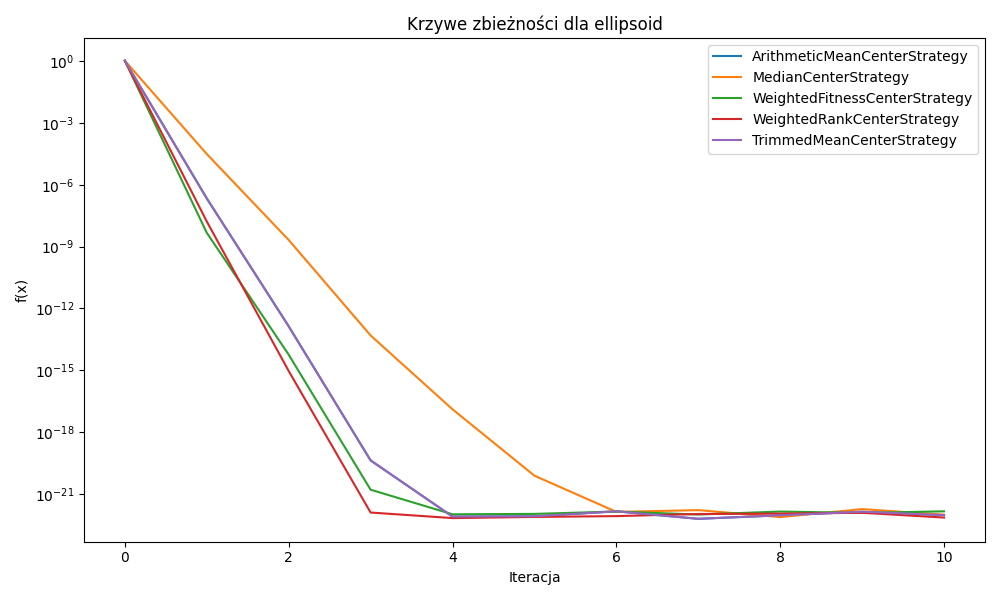
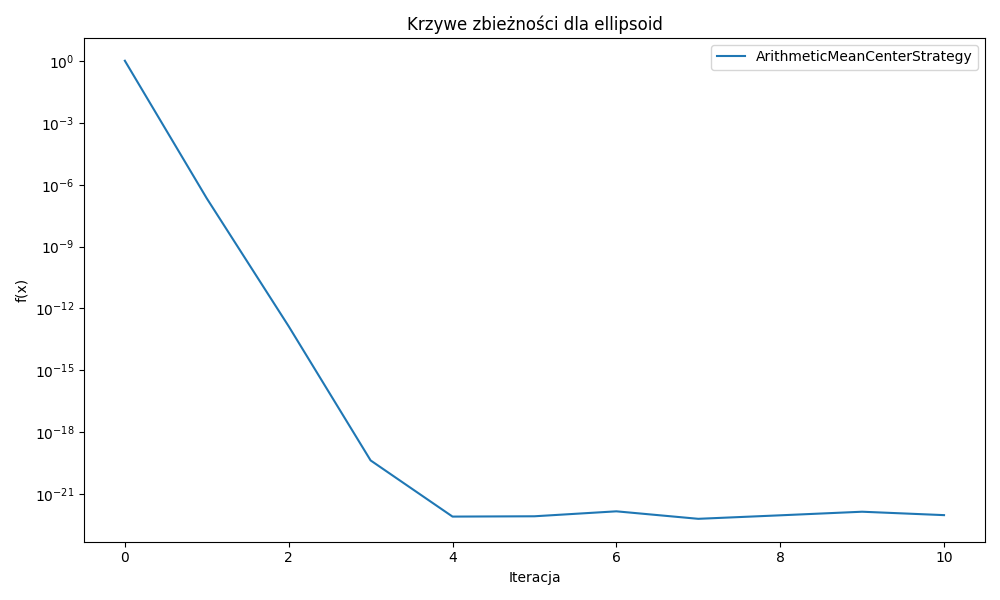
added more dims and lin scale for neg results

diff --git a/source/test/test_performance.py b/source/test/test_performance.py
@@ -16,28 +16,28 @@ CONV_CURVES_DIR = "convergence_curves"
 
 class TestCMAESPerformance(unittest.TestCase):
     def setUp(self):
-        self.dim = 5
-        self.x0 = np.zeros(self.dim)
+        self.dims = [2, 5, 10, 20]
         self.max_iter = 1000
         self.sigma = 0.5
         self.seeds = [42, 123, 7, 2024, 999]
         self.results = {}  # (func_name, strategy_name) -> [fx, fx, ...]
         os.makedirs(CONV_CURVES_DIR, exist_ok=True)
 
-    def run_optimizer(self, func, center_strategy, seed):
+    def run_optimizer(self, func, center_strategy, seed, dim):
+        x0 = np.zeros(dim)
         params = CMAParameters.basic_from_literature(
-            dim=self.dim, center_strategy=center_strategy, seed=seed
+            dim=dim, center_strategy=center_strategy, seed=seed
         )
         params.max_iter = self.max_iter
         params.sigma = self.sigma
-        optimizer = cma_es(x0=self.x0, parameters=params)
+        optimizer = cma_es(x0=x0, parameters=params)
         result = optimizer.optimize(func)
         # --- ZAPISZ KRZYWĄ ZBIEŻNOŚCI ---
         curve = getattr(optimizer, "f_history", None)
         if curve is None and hasattr(optimizer, "logger"):
             curve = getattr(optimizer.logger, "best_fitness_history", None)
         if curve is not None:
-            curve_filename = f"{CONV_CURVES_DIR}/{func.__name__}_{type(center_strategy).__name__}_seed{seed}.csv"
+            curve_filename = f"{CONV_CURVES_DIR}/{func.__name__}_{type(center_strategy).__name__}_dim{dim}_seed{seed}.csv"
             with open(curve_filename, "w", newline="") as f:
                 writer = csv.writer(f)
                 writer.writerow(["iteration", "fx"])
@@ -48,10 +48,10 @@ class TestCMAESPerformance(unittest.TestCase):
     def save_results_to_csv(self, filename=RESULTS_CSV):
         with open(filename, "w", newline="") as f:
             writer = csv.writer(f)
-            writer.writerow(["function", "strategy", "seed", "fx"])
-            for (func_name, strategy_name), fx_list in self.results.items():
+            writer.writerow(["function", "strategy","dim", "seed", "fx"])
+            for (func_name, strategy_name,dim), fx_list in self.results.items():
                 for i, fx in enumerate(fx_list):
-                    writer.writerow([func_name, strategy_name, self.seeds[i], fx])
+                    writer.writerow([func_name, strategy_name, dim, self.seeds[i], fx])
 
     def save_results_pickle(self, filename=RESULTS_PKL):
         with open(filename, "wb") as f:
@@ -70,24 +70,25 @@ class TestCMAESPerformance(unittest.TestCase):
             mn.TrimmedMeanCenterStrategy(),
         ]
         tol = 5e-2
-        max_time = 5.0  # sekundy
+        max_time = 10.0  # sekundy
 
         errors = []  # lista błędów
 
         for func_name, func in benchmark_functions.items():
-            for strategy in strategies:
-                fx_list = []
-                for seed in self.seeds:
-                    np.random.seed(seed)
-                    start = time.time()
-                    result = self.run_optimizer(func, strategy, seed)
-                    elapsed = time.time() - start
-                    fx = func(result)
-                    fx_list.append(fx)
-                    print(f"{func_name} {type(strategy).__name__}: f(x)={fx:.3e}, czas={elapsed:.2f}s")
-                    if not (fx < tol and elapsed < max_time):
-                        errors.append(f"{func_name} {type(strategy).__name__} seed={seed}: f(x)={fx}, czas={elapsed}s")
-                self.results[(func_name, type(strategy).__name__)] = fx_list
+            for dim in self.dims:
+                for strategy in strategies:
+                    fx_list = []
+                    for seed in self.seeds:
+                        np.random.seed(seed)
+                        start = time.time()
+                        result = self.run_optimizer(func, strategy, seed, dim)
+                        elapsed = time.time() - start
+                        fx = func(result)
+                        fx_list.append(fx)
+                        print(f"{func_name} dim={dim} {type(strategy).__name__}: f(x)={fx:.3e}, czas={elapsed:.2f}s")
+                        if not (fx < tol and elapsed < max_time):
+                            errors.append(f"{func_name} {type(strategy).__name__} dim ={dim} seed={seed}: f(x)={fx}, czas={elapsed}s")
+                    self.results[(func_name, type(strategy).__name__, dim)] = fx_list
 
         # Zapisz wyniki po teście
         self.save_results_to_csv()
@@ -99,18 +100,18 @@ class TestCMAESPerformance(unittest.TestCase):
             for err in errors:
                 print(err)
 
-    def wilcoxon_center_on_function(self, func_name, strat1, strat2):
-        fx1 = self.results.get((func_name, strat1))
-        fx2 = self.results.get((func_name, strat2))
+    def wilcoxon_center_on_function(self, func_name, strat1, strat2, dim):
+        fx1 = self.results.get((func_name, strat1, dim))
+        fx2 = self.results.get((func_name, strat2, dim))
         if fx1 is None or fx2 is None:
-            self.skipTest("Najpierw uruchom test_performance_and_collect, by zebrać wyniki.")
+             print(f"Brak wyników dla {func_name}, {strat1} lub {strat2}, dim={dim}")
         # Sprawdź czy wszystkie różnice to zero
         diffs = np.array(fx1) - np.array(fx2)
         if np.allclose(diffs, 0):
-            print(f"Wilcoxon {strat1} vs {strat2} on {func_name}: wszystkie wyniki identyczne, test pominięty.")
+            print(f"Wilcoxon {strat1} vs {strat2} on {func_name} dim ={dim}: wszystkie wyniki identyczne, test pominięty.")
             return
         stat, p = wilcoxon(fx1, fx2)
-        print(f"Wilcoxon {strat1} vs {strat2} on {func_name}: stat={stat}, p={p}")
+        print(f"Wilcoxon {strat1} vs {strat2} on {func_name} dim={dim}: stat={stat}, p={p}")
 
     def test_wilcoxon_all(self):
         # Jeśli nie masz wyników w pamięci, wczytaj z pliku
@@ -129,13 +130,15 @@ class TestCMAESPerformance(unittest.TestCase):
         ]
 
         for func_name in benchmark_functions.keys():
-            for i in range(len(strategies)):
-                for j in range(i + 1, len(strategies)):
-                    self.wilcoxon_center_on_function(
-                        func_name,
-                        strategies[i],
-                        strategies[j]
-                    )
+            for dim in self.dims:
+                for i in range(len(strategies)):
+                    for j in range(i + 1, len(strategies)):
+                        self.wilcoxon_center_on_function(
+                            func_name,
+                            strategies[i],
+                            strategies[j],
+                            dim
+                        )
 
 if __name__ == "__main__":
     unittest.main()

diff --git a/source/visualizer.py b/source/visualizer.py
@@ -2,11 +2,11 @@ import os
 import glob
 import pandas as pd
 import matplotlib.pyplot as plt
-from functions.benchmark import benchmark_functions
 
-SAVE_DIR = "plots"
+# --- GLOBALNE WYMIARY ---
+DIMS = [2, 5, 10, 20]
 
-def plot_convergence_curves(curves_dir="convergence_curves", func_name="rastrigin", strategies=None):
+def plot_convergence_curves(curves_dir="convergence_curves", func_name="rastrigin", strategies=None, save_dir="plots"):
     if strategies is None:
         strategies = [
             "ArithmeticMeanCenterStrategy",
@@ -15,31 +15,102 @@ def plot_convergence_curves(curves_dir="convergence_curves", func_name="rastrigi
             "WeightedRankCenterStrategy",
             "TrimmedMeanCenterStrategy",
         ]
-    plt.figure(figsize=(10, 6))
-    for strategy in strategies:
-        all_curves = []
-        files = glob.glob(f"{curves_dir}/{func_name}_{strategy}_seed*.csv")
-        for file in files:
-            df = pd.read_csv(file)
-            all_curves.append(df["fx"].values)
-        if all_curves:
-            min_len = min(len(curve) for curve in all_curves)
-            all_curves = [curve[:min_len] for curve in all_curves]
-            mean_curve = sum(all_curves) / len(all_curves)
-            plt.plot(range(min_len), mean_curve, label=strategy)
-    plt.yscale("log")
-    plt.xlabel("Iteracja")
-    plt.ylabel("f(x)")
-    plt.title(f"Krzywe zbieżności dla {func_name}")
-    plt.legend()
-    plt.tight_layout()
-    plot_path = os.path.join(SAVE_DIR, f"convergence_{func_name}.png")
+    os.makedirs(save_dir, exist_ok=True)
+
+    # --- 1. Rysuj osobne wykresy dla każdego wymiaru ---
+    for dim in DIMS:
+        plt.figure(figsize=(10, 6))
+        any_curve = False
+        for strategy in strategies:
+            all_curves = []
+            files = glob.glob(f"{curves_dir}/{func_name}_{strategy}_dim{dim}_seed*.csv")
+            if not files:
+                print(f"Brak plików dla strategii {strategy}, funkcji {func_name}, dim={dim}")
+            for file in files:
+                df = pd.read_csv(file)
+                if "fx" in df.columns and len(df["fx"]) > 0:
+                    all_curves.append(df["fx"].values)
+            if all_curves:
+                any_curve = True
+                min_len = min(len(curve) for curve in all_curves)
+                all_curves = [curve[:min_len] for curve in all_curves]
+                mean_curve = sum(all_curves) / len(all_curves)
+                plt.plot(range(min_len), mean_curve, label=strategy)
+        if not any_curve:
+            print(f"Brak danych do narysowania wykresu dla dim={dim}!")
+            plt.close()
+            continue
+        # Ustal skalę Y
+        all_fx = []
+        for line in plt.gca().get_lines():
+            all_fx.extend(line.get_ydata())
+        min_fx = min(all_fx)
+        if min_fx > 0:
+            plt.yscale("log")
+        else:
+            plt.yscale("linear")
+            print("Uwaga: Wartości <= 0, wykres na skali liniowej.")
+        plt.xlabel("Iteracja")
+        plt.ylabel("f(x)")
+        plt.title(f"Krzywa zbieżności: {func_name}, dim={dim}")
+        plt.legend()
+        plt.tight_layout()
+        plot_path = os.path.join(save_dir, f"convergence_{func_name}_dim{dim}.png")
+        plt.savefig(plot_path)
+        print(f"Saved plot to {plot_path}")
+        plt.close()
+
+    # --- 2. Jeden wykres z 4 subplotami ---
+    fig, axs = plt.subplots(2, 2, figsize=(14, 10))
+    axs = axs.flatten()
+    for idx, dim in enumerate(DIMS):
+        ax = axs[idx]
+        any_curve = False
+        for strategy in strategies:
+            all_curves = []
+            files = glob.glob(f"{curves_dir}/{func_name}_{strategy}_dim{dim}_seed*.csv")
+            for file in files:
+                df = pd.read_csv(file)
+                if "fx" in df.columns and len(df["fx"]) > 0:
+                    all_curves.append(df["fx"].values)
+            if all_curves:
+                any_curve = True
+                min_len = min(len(curve) for curve in all_curves)
+                all_curves = [curve[:min_len] for curve in all_curves]
+                mean_curve = sum(all_curves) / len(all_curves)
+                ax.plot(range(min_len), mean_curve, label=strategy)
+        if any_curve:
+            all_fx = []
+            for line in ax.get_lines():
+                all_fx.extend(line.get_ydata())
+            min_fx = min(all_fx)
+            if min_fx > 0:
+                ax.set_yscale("log")
+            else:
+                ax.set_yscale("linear")
+            ax.set_title(f"dim={dim}")
+            ax.set_xlabel("Iteracja")
+            ax.set_ylabel("f(x)")
+            ax.legend(fontsize=8)
+        else:
+            ax.set_title(f"dim={dim} (brak danych)")
+            ax.axis('off')
+    plt.suptitle(f"Krzywe zbieżności dla {func_name} (różne wymiary)", fontsize=16)
+    plt.tight_layout(rect=[0, 0.03, 1, 0.95])
+    plot_path = os.path.join(save_dir, f"convergence_{func_name}_subplots.png")
     plt.savefig(plot_path)
-    print(f"Saved plot to {plot_path}")
-    plt.show()
-  
+    print(f"Saved subplot to {plot_path}")
+    plt.close()
+
 if __name__ == "__main__":
-    for func_name in benchmark_functions.keys():
-        print(f"Plotting convergence curves for {func_name}")
-        plot_convergence_curves(func_name=func_name)
-    print("All convergence curves plotted.")
+    functions = [
+        "sphere",
+        "rastrigin",
+        "schwefel",
+        "griewank",
+        "zakharov",
+        "michalewicz",
+        "booth"
+    ]
+    for func in functions:
+        plot_convergence_curves(func_name=func)
